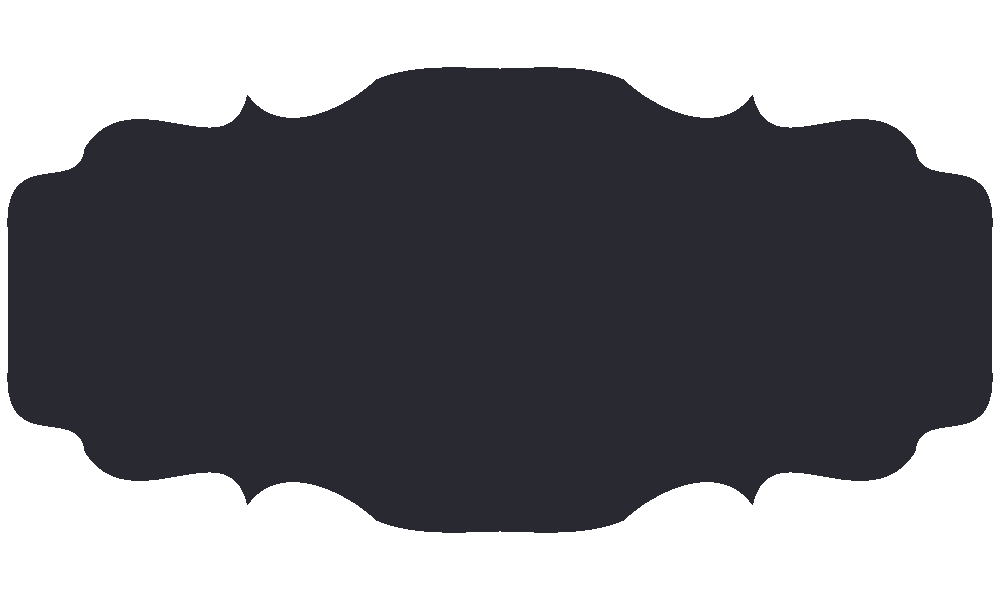
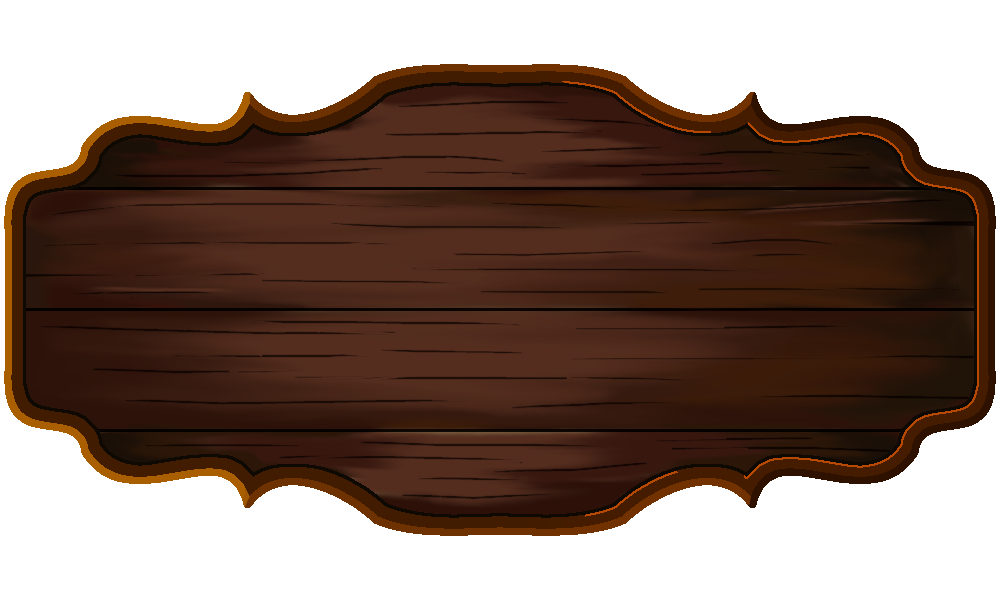
Changed image from placeholder and into a design. Also changed html and css to reflect the new image.

diff --git a/css/style.css b/css/style.css
@@ -1,40 +1,128 @@
 body {
     background-size: cover;
     background-color:rgb(148, 153, 161);
-    font-family:'Cochin', serif;
+    font-family: 'Courier New', Courier, monospace;
 }
+#title_Container {
+    margin: auto;
+    width: 95%;
+    text-align: center;
+    position: relative;
+    margin-bottom: 10px;
+    font-size: 50px;
+    border: 7px double;
+}
+#tavern_Div {
+    padding: 10px;
+    float: left;
+    margin-left: 3%;
+    width: 45%;
+    height:225px;
+    border: 3px double;
+    border-radius: 5px;
+    position: relative;
+    text-align: center;
 
-#Title {
+
+}
+#owner_Div {
+    padding: 10px;
+    float: right;
+    margin-right: 3%;
+    width: 45%;
+    height:225px;
+    border: 3px double;
+    border-radius: 5px;
+    position: relative;
+    text-align: center;
+
+
+}
+.center {
+    margin: 0;
+    position: absolute;
+    top: 50%;
+    left: 50%;
+    transform: translate(-50%, -50%);
+}
+.sign {
+    width: 100%;
+    height: 100%;
+}
+#tavern_Title {
+    position: relative;
     font-size: 40px;
+    font-weight: bolder;
+    line-height: 1.6;
+    padding: 10px;
+    float: left;
+    margin-left: 11%;
+    width: 30%;
+    height: 300px;
+    text-align: center;
+    margin-bottom: 5px;
+
+
+}
+#owner_Title {
+    position: relative;
+    font-size: 40px;
+    font-weight: bolder;
+    line-height: 1.6;
+    padding: 10px;
+    float: right;
+    margin-right: 11%;
+    width: 30%;
+    height: 300px;
+    text-align: center;
+    margin-bottom: 5px;
+}
+#Title {
+    font-size: 50px;
     text-align:center;
-
-
+}
+.output_Text {
+    font-size: 28px;
 }
 .Base {
     margin: auto;
-    border: 7px solid;
+    margin-bottom: 10%;
+    border: 5px double;
     border-color: rgb(43, 39, 49);
-    width: 75%;
+    width: 85%;
+    height: 275px;
     padding: 10px;
     background-color: rgb(96, 104, 116);
     text-align: center;
+    position: relative;
+    font-size: 35px;
+    line-height: 1.6; 
 }
-#Tavern_Name {
-    font-size: 35px;   
+
+  .heading {
+    font-size: 45px;
+    margin-bottom: 1%;
+
+  }
+
+.Name {
+    font-size: 35px; 
+    font-style: italic;
+}
+.Text {
+    font-family: 'Courier New', Courier, monospace;
 }
 .button {
     background-color: rgb(96, 104, 116);
-    border: 3px solid;
     border-color:rgb(43, 39, 49);
+    border: 3px solid;
     font-size: 24px;
-    margin: auto;
-    padding: 15px 32px;
+    margin:5px;
+    padding: 12px 24px;
     border-radius: 5px;
     transition-duration: 0.4s;
 
 }
 .button:hover {
     background-color: rgb(43, 39, 49);
-
-
 }

diff --git a/index.html b/index.html
@@ -8,22 +8,65 @@
     <link rel = "stylesheet" href = "css/style.css">
 </head>
 <body>
-    <h1 id = "Title">TAVERN AND OWNER GENERATOR</h1>
-    <div class = "Base">
-        <p class = "Text">Generate a Tavern!</p>
+    <div id = "title_Container">Tavern and Owner Generator</div>
+    <div id = "tavern_Title">
+        <img src = "img/sign_img.png" alt = "Sign" class = "sign">
+        <div class = "center">
+        Generate a Tavern Name!
+        </div>
+    </div>
+        
+    <div id = "owner_Title">
+        <img src = "img/sign_img.png" alt = "Sign" class = "sign">
+        <div class = "center">
+        Generate an Owner Name!
+        </div>
+    </div>
+
+    <div id = "tavern_Div">
         <button id = "Rich" class = "button">Rich</button>
         <button id = "Middle" class = "button">Middle</button>
         <button id = "Poor" class = "button">Poor</button>
         <button id = "Surprise" class = "button">Surprise Me!</button>
-        <div id = "Tavern_Name">
+        <p id = "Tavern_Name" class = "output_Text">
+            The Opulent Jewel
+        </p>
+    </div>
+    <div id = "owner_Div">
+        <button id = "Owner" class = "button">Generate!</button>
+        <p id = "Owner_Name" class = "output_Text">
+            The owner is short and chubby.<br>They are serious and have a fear of dogs.
+        </p> 
+    </div>
+
+
+
+
+
+    <!--
+    <div>
+    <h1 id = "Title">TAVERN AND OWNER GENERATOR</h1>
+    <div class = "Base">
+        <div class = "center">
+        <button id = "Rich" class = "button">Rich</button>
+        <button id = "Middle" class = "button">Middle</button>
+        <button id = "Poor" class = "button">Poor</button>
+        <button id = "Surprise" class = "button">Surprise Me!</button>
+        </div>
+        <div id = "Tavern_Name" class = "center">
+            The Opulent Jewel
         </div>
     </div>
     <div class = "Base">
         <p class = "Text">Generate an Owner!</p>
+        <div class = center>
         <button id = "Owner" class = "button">Generate!</button>
-        <div id = "Owner_Name">
         </div>
+        <div id = "Owner_Name" class = "center">
+            The owner is short and chubby.<br>They are serious and have a fear of dogs.
+        </div> 
     </div>
+</div>-->
     
 <script src = "js/script.js"></script>
 </body>
